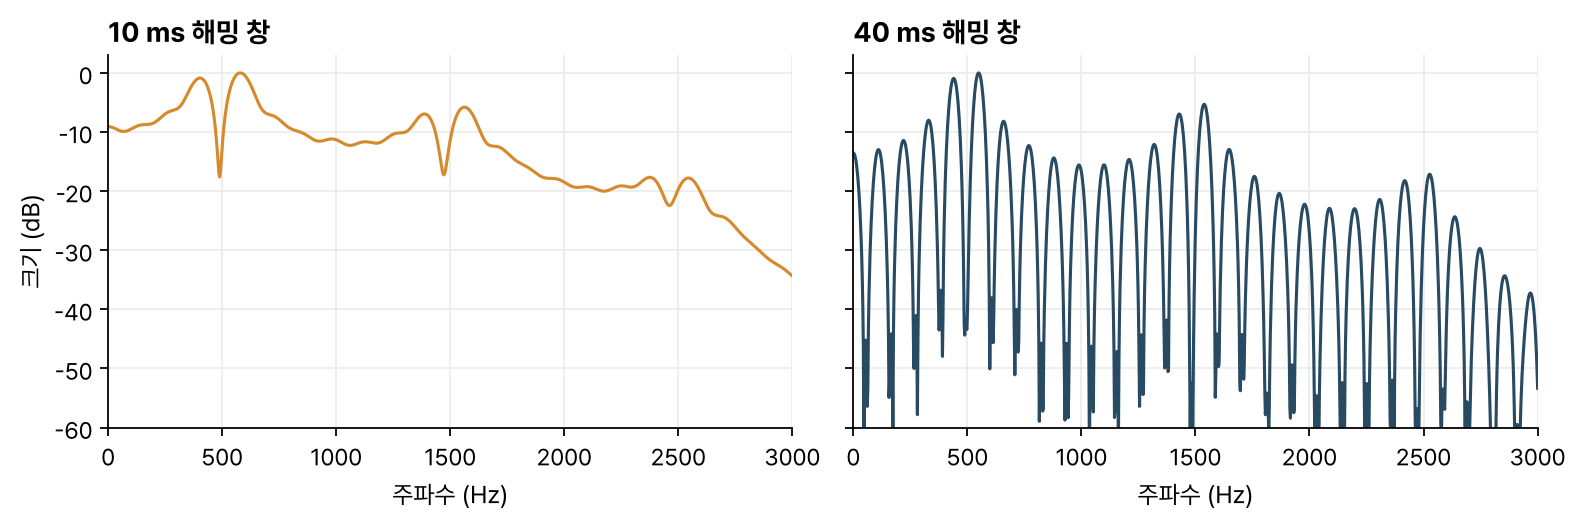
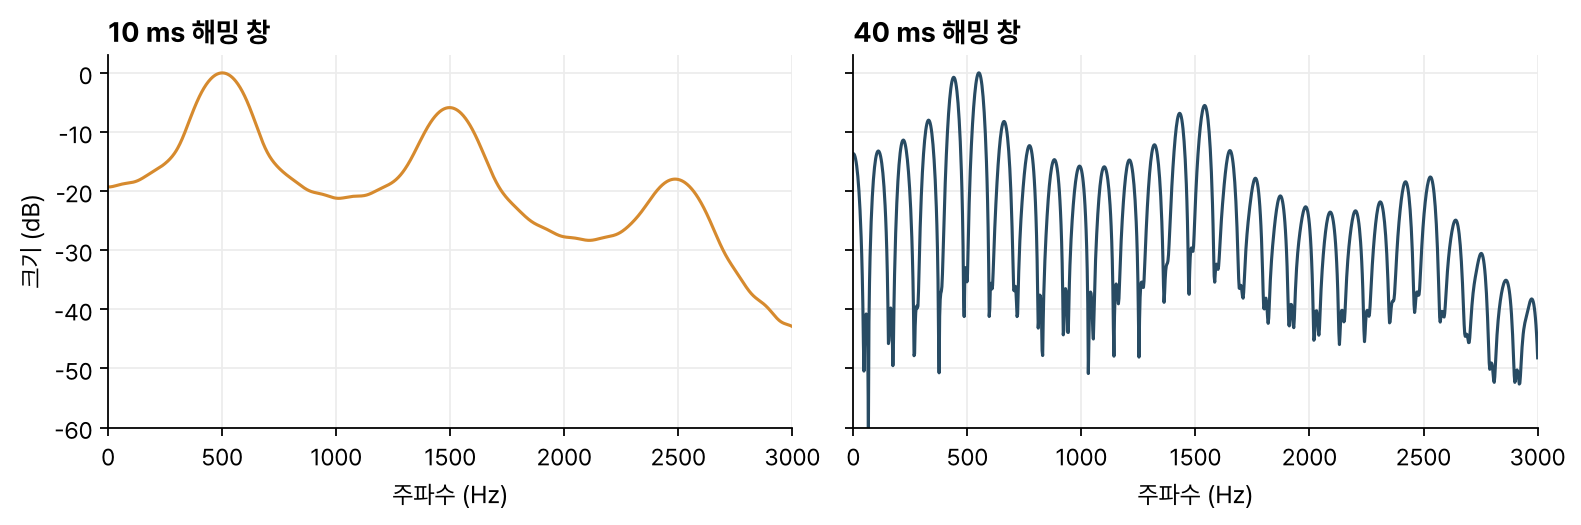
Fix review findings in HST.582J STFT note
Claude-Session: https://claude.ai/code/session_01DRUnFxFn4g3T7a1hqi5YWp

diff --git a/scripts/figures/stft.py b/scripts/figures/stft.py
@@ -19,7 +19,8 @@ n = np.arange(int(T * FS))
 f0 = 100 + 40 * n / len(n)
 phase = np.cumsum(f0 / FS)
 x = np.zeros(len(n))
-x[np.nonzero(np.diff(np.floor(phase)) > 0)[0] + 1] = 1.0
+pulses = np.nonzero(np.diff(np.floor(phase)) > 0)[0] + 1
+x[pulses] = 1.0
 for fc, bw in [(500, 80), (1500, 120), (2500, 160)]:
     r = np.exp(-np.pi * bw / FS)
     a = [1, -2 * r * np.cos(2 * np.pi * fc / FS), r * r]
@@ -27,7 +28,8 @@ for fc, bw in [(500, 80), (1500, 120), (2500, 160)]:
 x = x / np.max(np.abs(x))
 
 # 그림 1: 한 시각에서 10 ms와 40 ms 해밍 창으로 본 스펙트럼
-n0 = int(0.15 * FS)
+# 창 가운데를 0.15 s에 가장 가까운 펄스 25 표본 뒤에 둔다
+n0 = int(pulses[np.argmin(np.abs(pulses - 0.15 * FS))] + 25)
 fig, axes = plt.subplots(1, 2, figsize=(10, 3.4), sharey=True)
 for ax, ms, c in zip(axes, (10, 40), (ORANGE, BLUE)):
     L = int(ms * FS / 1000)
@@ -43,6 +45,7 @@ for ax, ms, c in zip(axes, (10, 40), (ORANGE, BLUE)):
 axes[0].set_ylabel("크기 (dB)")
 fig.tight_layout()
 save(fig, ARTICLE, "window-length-spectra.png")
+print("window centre t =", n0 / FS, "s, f0 =", round(100 + 40 * n0 / len(n), 1), "Hz")
 
 # 그림 2: 광대역·협대역 스펙트로그램
 fig, axes = plt.subplots(1, 2, figsize=(10, 3.6), sharey=True)
